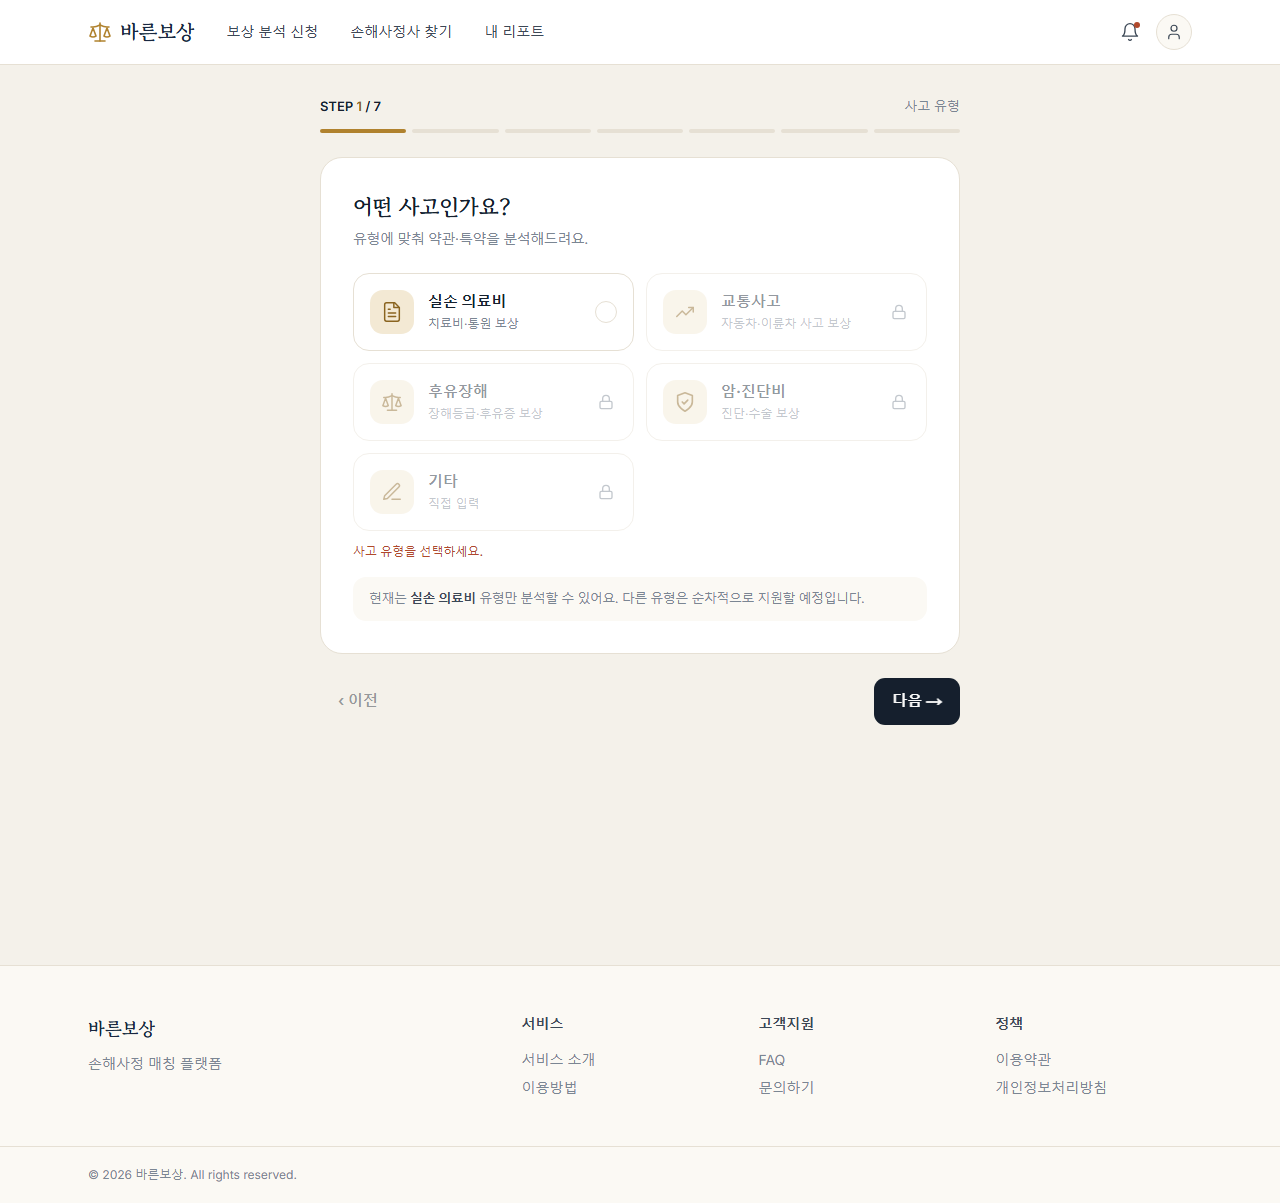
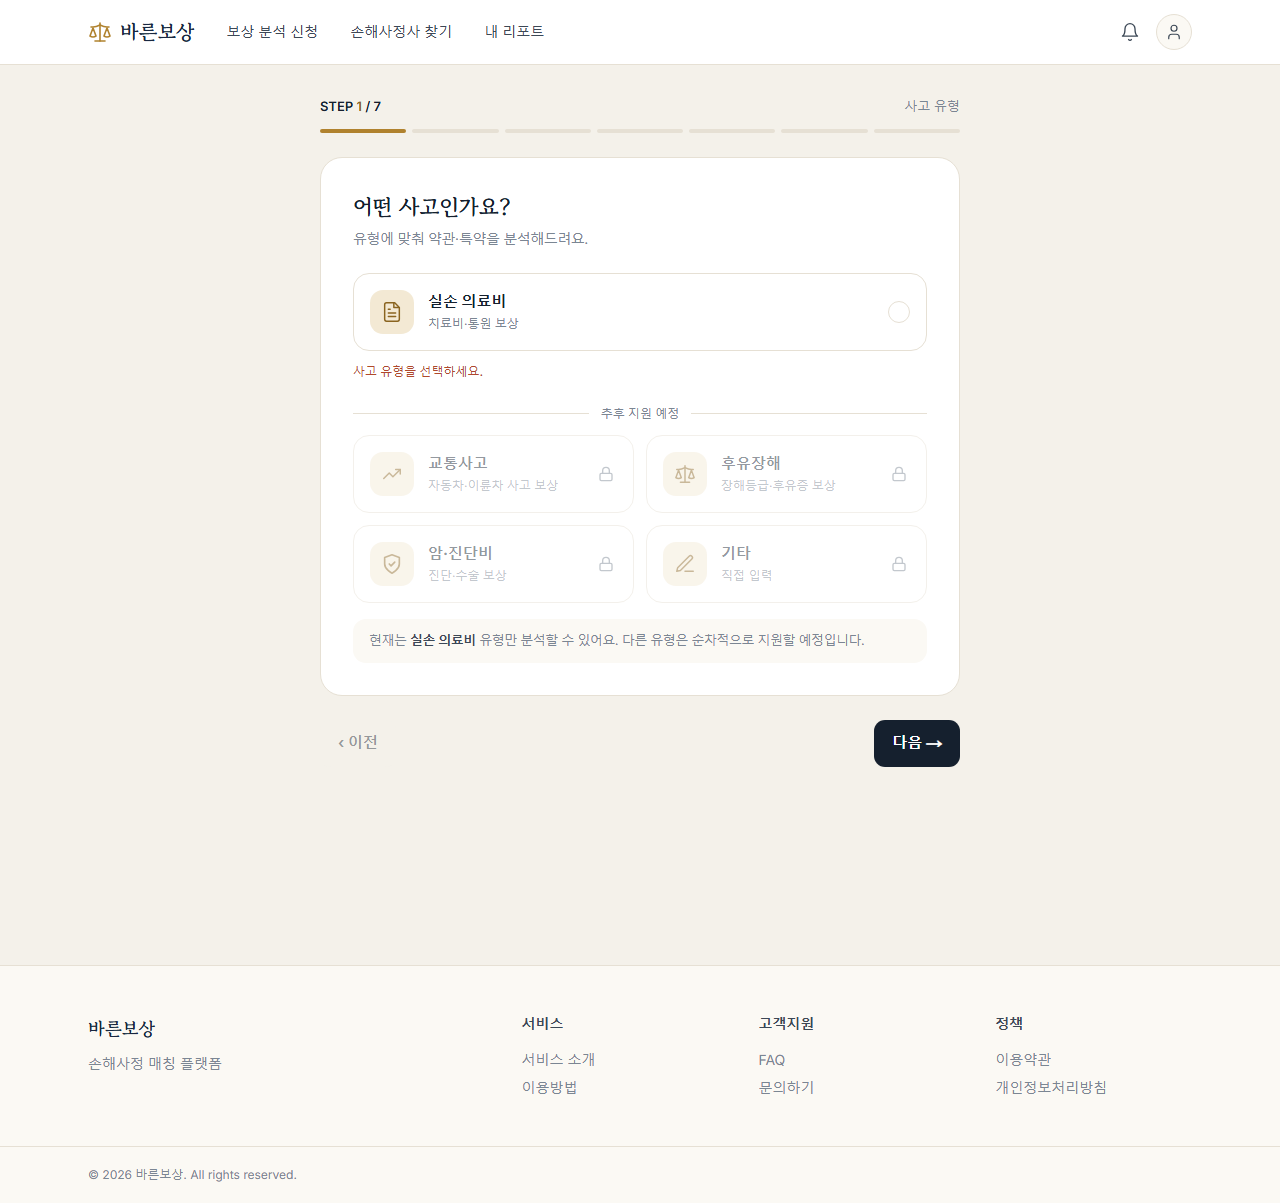
design : 사고 유형 목록을 지원·추후 지원 예정 층으로 분리
* 실손 의료비 카드를 단독 층으로 배치
* "추후 지원 예정" 구분선 아래 잠금 카드 4종 배치
* PR 스크린샷 갱신

diff --git a/apps/web/src/app/customer/adjust-request/_components/Step1AccidentType.tsx b/apps/web/src/app/customer/adjust-request/_components/Step1AccidentType.tsx
@@ -16,7 +16,6 @@ import { Tooltip } from "@/shared/ui/Tooltip";
 import { AccidentTypeCard } from "./AccidentTypeCard";
 import type { AdjustRequestDraft } from "../_model/types";
 
-// 지원 유형(실손 의료비)이 첫 번째로 오도록 배치.
 const ACCIDENT_TYPES: { value: AccidentType; description: string; icon: ReactNode }[] = [
   { value: "medical_indemnity", description: "치료비·통원 보상", icon: <FileText /> },
   { value: "traffic", description: "자동차·이륜차 사고 보상", icon: <TrendingUp /> },
@@ -41,34 +40,47 @@ export function Step1AccidentType() {
         유형에 맞춰 약관·특약을 분석해드려요.
       </p>
 
-      <div className="mt-6 grid grid-cols-1 gap-3 sm:grid-cols-2" role="radiogroup">
-        {ACCIDENT_TYPES.map((type) => {
-          const locked = type.value !== SUPPORTED_ACCIDENT_TYPE;
-          const card = (
-            <AccidentTypeCard
-              key={type.value}
-              icon={type.icon}
-              title={accidentTypeLabel(type.value)}
-              description={type.description}
-              selected={selected === type.value}
-              disabled={locked}
-              onSelect={() =>
-                setValue("accidentType", SUPPORTED_ACCIDENT_TYPE, { shouldValidate: true })
-              }
-            />
-          );
-          if (!locked) return card;
-          return (
-            <Tooltip key={type.value} label={LOCKED_TOOLTIP} className="w-full cursor-not-allowed">
-              {card}
-            </Tooltip>
-          );
-        })}
+      <div className="mt-6" role="radiogroup">
+        {ACCIDENT_TYPES.filter((type) => type.value === SUPPORTED_ACCIDENT_TYPE).map((type) => (
+          <AccidentTypeCard
+            key={type.value}
+            icon={type.icon}
+            title={accidentTypeLabel(type.value)}
+            description={type.description}
+            selected={selected === type.value}
+            onSelect={() =>
+              setValue("accidentType", SUPPORTED_ACCIDENT_TYPE, { shouldValidate: true })
+            }
+          />
+        ))}
       </div>
 
       {errors.accidentType && (
         <p className="mt-3 text-[0.75rem] font-medium text-terra">{errors.accidentType.message}</p>
       )}
+
+      <div className="mt-6 flex items-center gap-3" aria-hidden>
+        <span className="h-px flex-1 bg-line" />
+        <span className="text-[0.75rem] font-medium text-ink-3">추후 지원 예정</span>
+        <span className="h-px flex-1 bg-line" />
+      </div>
+
+      <div className="mt-3 grid grid-cols-1 gap-3 sm:grid-cols-2">
+        {ACCIDENT_TYPES.filter((type) => type.value !== SUPPORTED_ACCIDENT_TYPE).map((type) => (
+          <Tooltip key={type.value} label={LOCKED_TOOLTIP} className="w-full cursor-not-allowed">
+            <AccidentTypeCard
+              icon={type.icon}
+              title={accidentTypeLabel(type.value)}
+              description={type.description}
+              selected={false}
+              disabled
+              onSelect={() =>
+                setValue("accidentType", SUPPORTED_ACCIDENT_TYPE, { shouldValidate: true })
+              }
+            />
+          </Tooltip>
+        ))}
+      </div>
 
       <p className="mt-4 rounded-input bg-paper-2 px-4 py-3 text-[0.78125rem] leading-relaxed text-ink-3">
         현재는 <span className="font-semibold text-ink-2">{accidentTypeLabel(SUPPORTED_ACCIDENT_TYPE)}</span> 유형만
